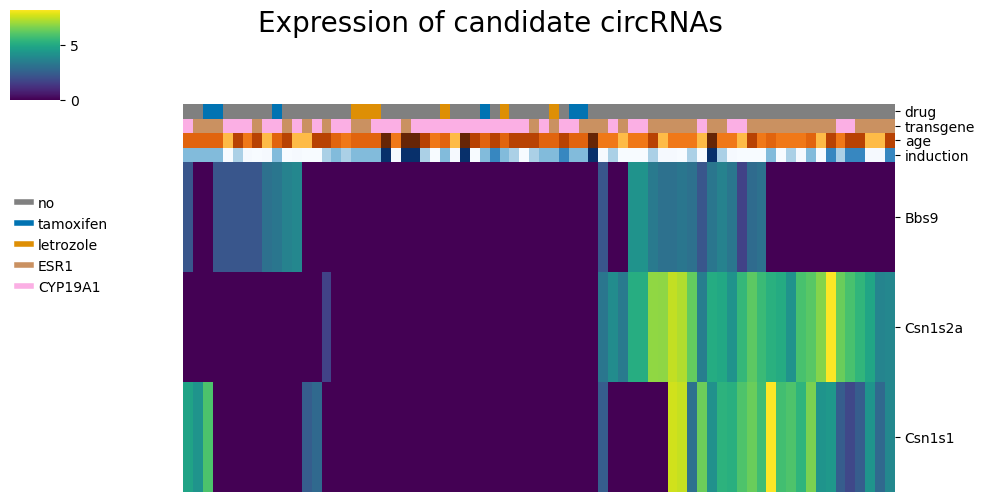
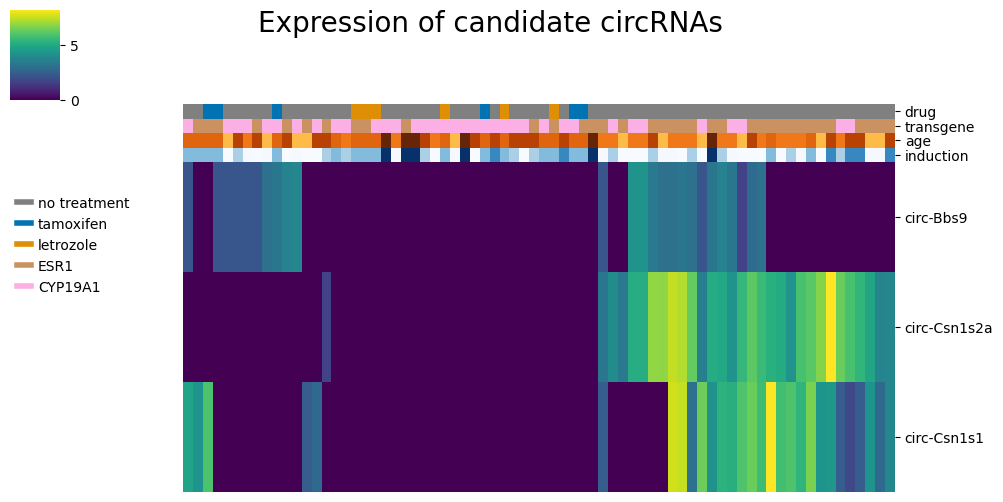
Add heatmap to text

diff --git a/chapters/4_results_and_discussion/3_de_analysis.tex b/chapters/4_results_and_discussion/3_de_analysis.tex
@@ -220,22 +220,27 @@ Most interestingly, the most significant \gls{crna} is the exact same as the
 one found in the analysis of \gls{tam} treatment.
 An overview of the outliers from both analyses is shown in \cref{tab:outliers}.
 
-\begin{table}[H] \centering \begin{tabular}{cccc} \hline Location & Host gene
-                                      & Adjusted $p$-value (\gls{tam}) &
-               Adjusted $p$-value (\gls{let})
+\begin{table}[H] \centering \begin{tabular}{ccccc} \hline Location   &
+               Host gene
+                                         & Adj. $p$-val. (\gls{tam})
+                                         &
+               Adj. $p$-val. (\gls{let}) & Has DB entry
                \\ \hline
-               chr5:87925915-87926842 & \textit{Csn1s2a}
-                                      &
+               chr5:87925915-87926842    & \textit{Csn1s2a}
+                                         &
                2.554e-52
-                                      & 2.105e-17
+                                         & 2.105e-17
+                                         & No
                \\
-               chr5:87817372-87821140 & \textit{Csn1s1}
-                                      & not
-               significant            & 2.876e-14
+               chr5:87817372-87821140    & \textit{Csn1s1}
+                                         & not
+               significant               & 2.876e-14
+                                         & No
                \\
-               chr9:22555041-22570441 & \textit{Bbs9}
-                                      & not
-               significant            & 4.415e-08
+               chr9:22555041-22570441    & \textit{Bbs9}
+                                         & not
+               significant               & 4.415e-08
+                                         & Yes
                \\
                \hline
     \end{tabular} \caption{Overview of the outliers found in the differential
@@ -249,5 +254,32 @@ The fact that the same \gls{crna} was found to be significantly associated with
 both \gls{tam} and \gls{let} treatment is intriguing.
 Furthermore,there are two other \glspl{crna} that are significantly associated
 with \gls{let} treatment, but not with \gls{tam} treatment.
-In the following sections, I will refer to these three \glspl{crna} using their
-host gene names: \textit{Csn1s2a}, \textit{Csn1s1}, and \textit{Bbs9}.
+From now on, I will refer to these three \glspl{crna} using their host gene
+names: \textit{circ-Csn1s2a}, \textit{circ-Csn1s1}, and \textit{circ-Bbs9}.
+
+\subsection{Investigating the expression of the candidate \glsfmtshortpl{crna}}
+
+In order to get a better understanding of the expression patterns that led to
+the identification of the three candidate \glspl{crna}, the expression levels
+of these \glspl{crna} were visualized across all samples.
+
+\begin{figure}[H] \centering
+
+    \includegraphics[width=\textwidth]{chapters/4_results_and_discussion/figures/heatmap.png}
+    \caption{Clustermap showing the expression levels of the candidate
+        \glspl{crna} \textit{circ-Csn1s2a}, \textit{circ-Csn1s1}, and
+        \textit{circ-Bbs9} across all samples.
+        The expression values were log-normalized with a pseudo count of 1.
+        Covariates are shown on the top of the plot.
+        For numerical covariates, darker colors indicate higher values.
+    }
+    \label{fig:candidate_heatmap}
+\end{figure}
+
+The clustermap in \cref{fig:candidate_heatmap} shows the expression levels of
+the three candidate \glspl{crna} across all samples.
+While the expression all three \glspl{crna} have portions of samples with high
+expression, all of them are lowly in almost all treated samples.
+However, there are also many untreated samples with low expression levels.
+Interestingly, these samples are mostly from cohorts with the \gls{cyp19}
+transgene.

diff --git a/chapters/4_results_and_discussion/4_target_genes.tex b/chapters/4_results_and_discussion/4_target_genes.tex
@@ -55,15 +55,11 @@ The results of the target gene analysis for the differentially expressed
 \end{figure}
 
 While the \textit{Bbs9} \gls{crna} did not have any predicted \gls{mirna}
-targets, the \textit{Csn1s2a} and \textit{Csn1s1} \glspl{crna} showed
-significant enrichment in several biological processes and pathways.
-The target genes of the \textit{Csn1s2a} \gls{crna} were enriched in processes
-related to immune response, while the target genes of the \textit{Csn1s1}
-\gls{crna} were enriched in catabolic processes.
+targets, the target genes of the \textit{Csn1s2a} and \textit{Csn1s1}
+\glspl{crna} showed significant enrichment in several biological processes and
+pathways.
 
-Interestingly, the \textit{Csn1s1} \gls{crna}, which was found significantly
-differentially expressed in the \gls{let}-treated group, showed
-\textit{aromatic compound catabolic process} as an enriched term.
-As \gls{let} acts as an aromatase inhibitor, this finding suggests that the
-\textit{Csn1s1} \gls{crna} may play a role in the metabolism of aromatase
-substrates.
+\subsection{Target genes of the \textit{Csn1s2a} \gls{crna}}
+
+\subsection{Target genes of the \textit{Csn1s1} \gls{crna}}
+
